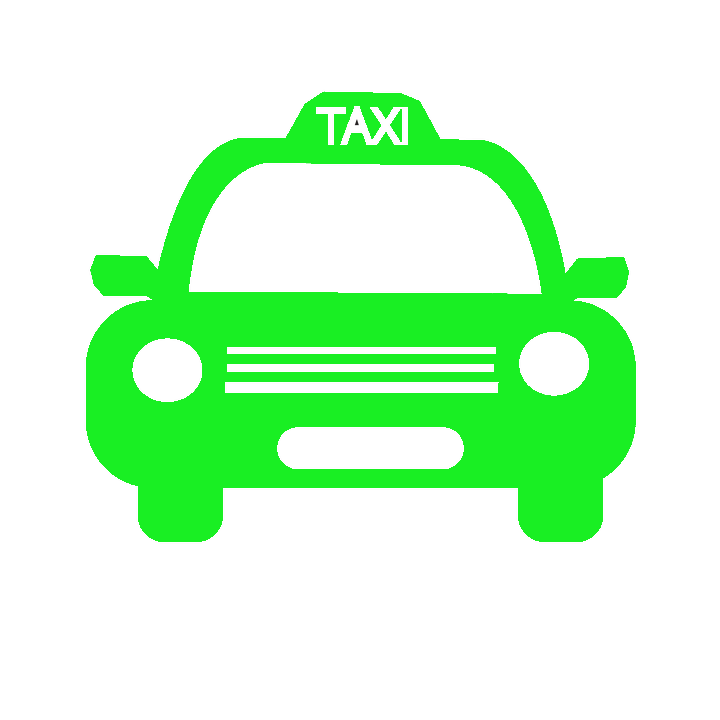
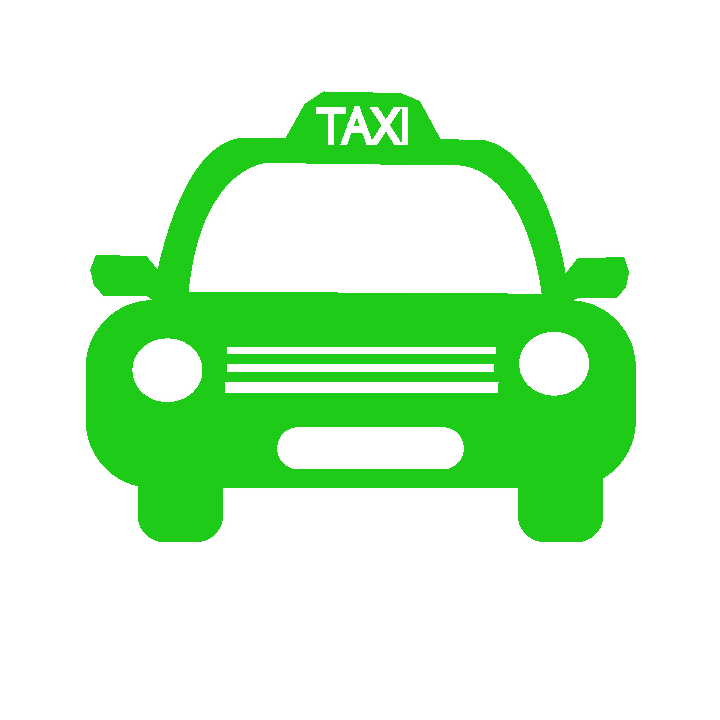
CAMBIOS EN LOS ICONOS DE LOS TAXIS

Changed region(s): [[0.1222, 0.1222, 0.8861, 0.7639]]

diff --git a/lsystems-taxi-driver/src/pages/earnings/earnings.html b/lsystems-taxi-driver/src/pages/earnings/earnings.html
@@ -42,7 +42,7 @@
 
         <ion-item *ngFor="let item of pasajerosHoy">
           <ion-avatar item-start>
-            <img src="assets/imgs/Taxi_Ocupado.png">
+            <img src="assets/imgs/Taxi_Standard.png">
           </ion-avatar>
           <h2><b>Pasajero: {{item.nombre}}</b></h2>
           <h3>Hora de inicio: {{item.horaInicio}}</h3>
